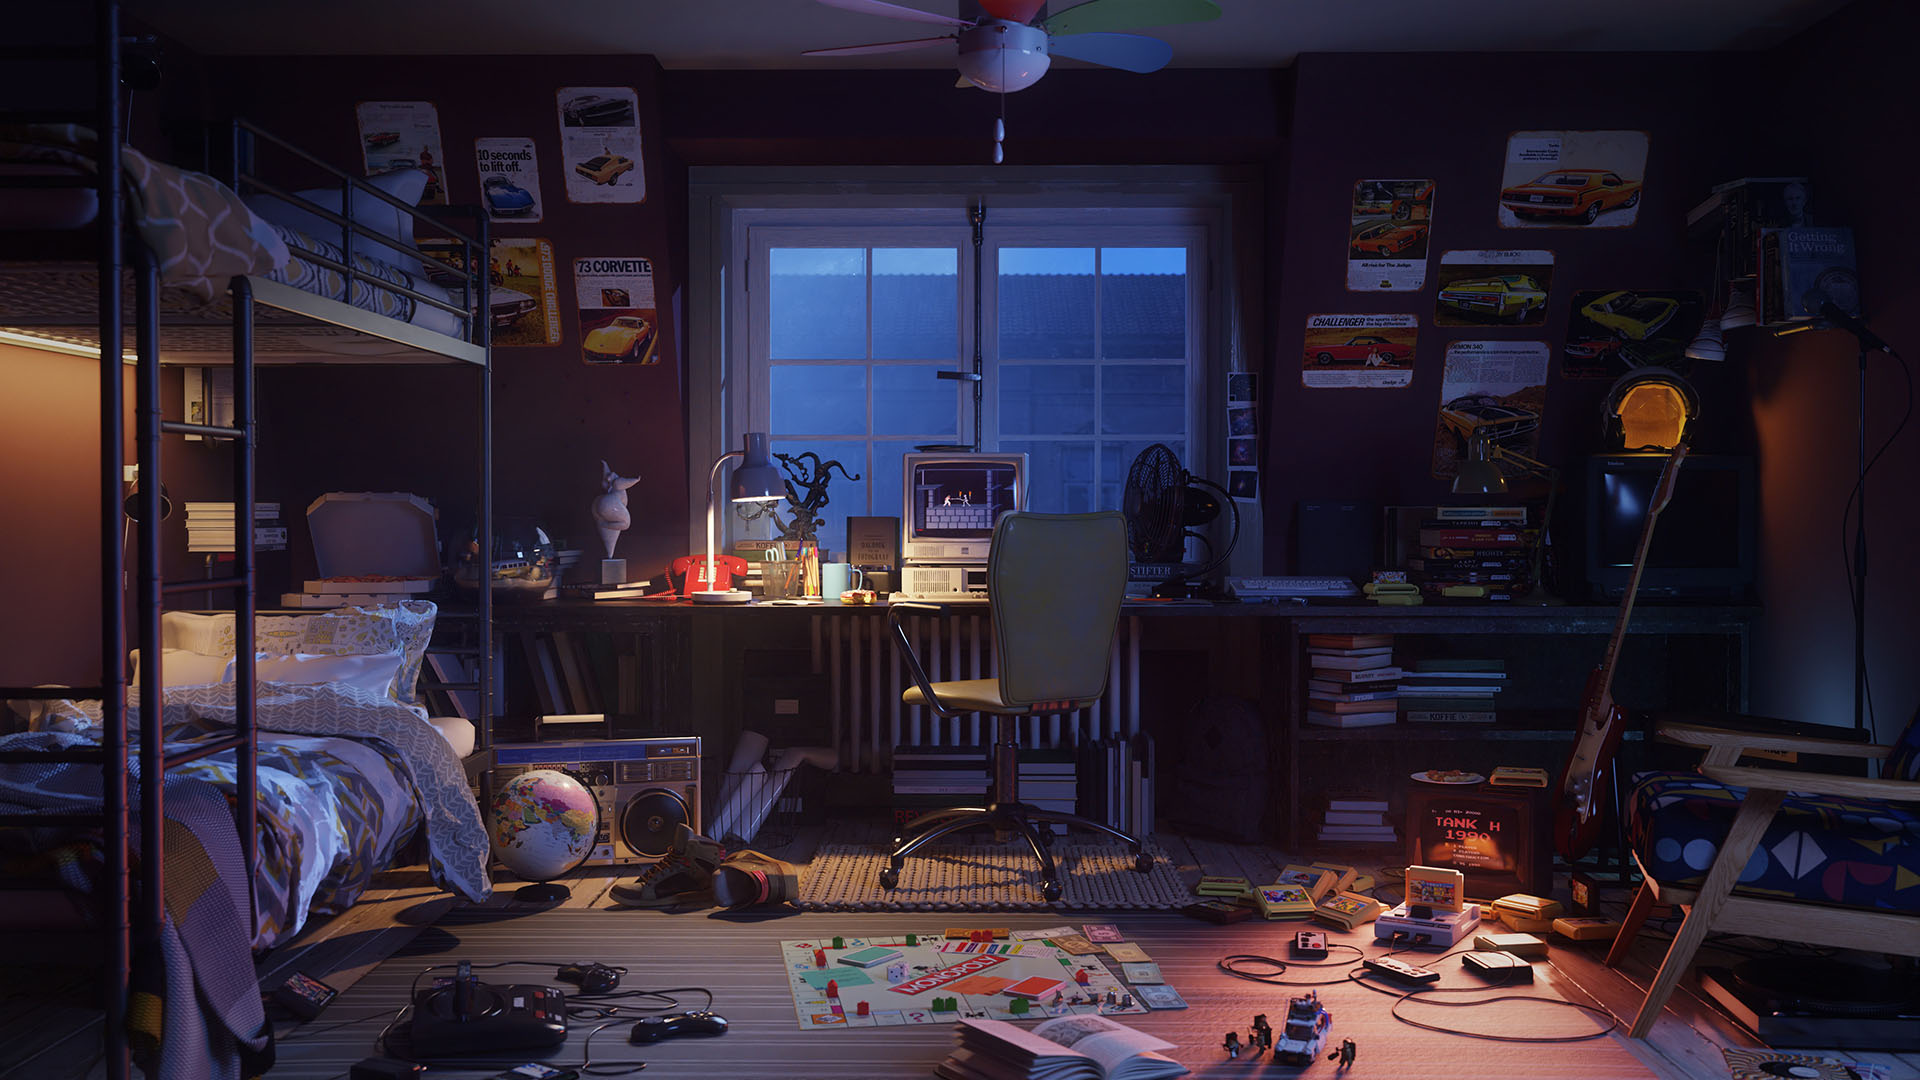
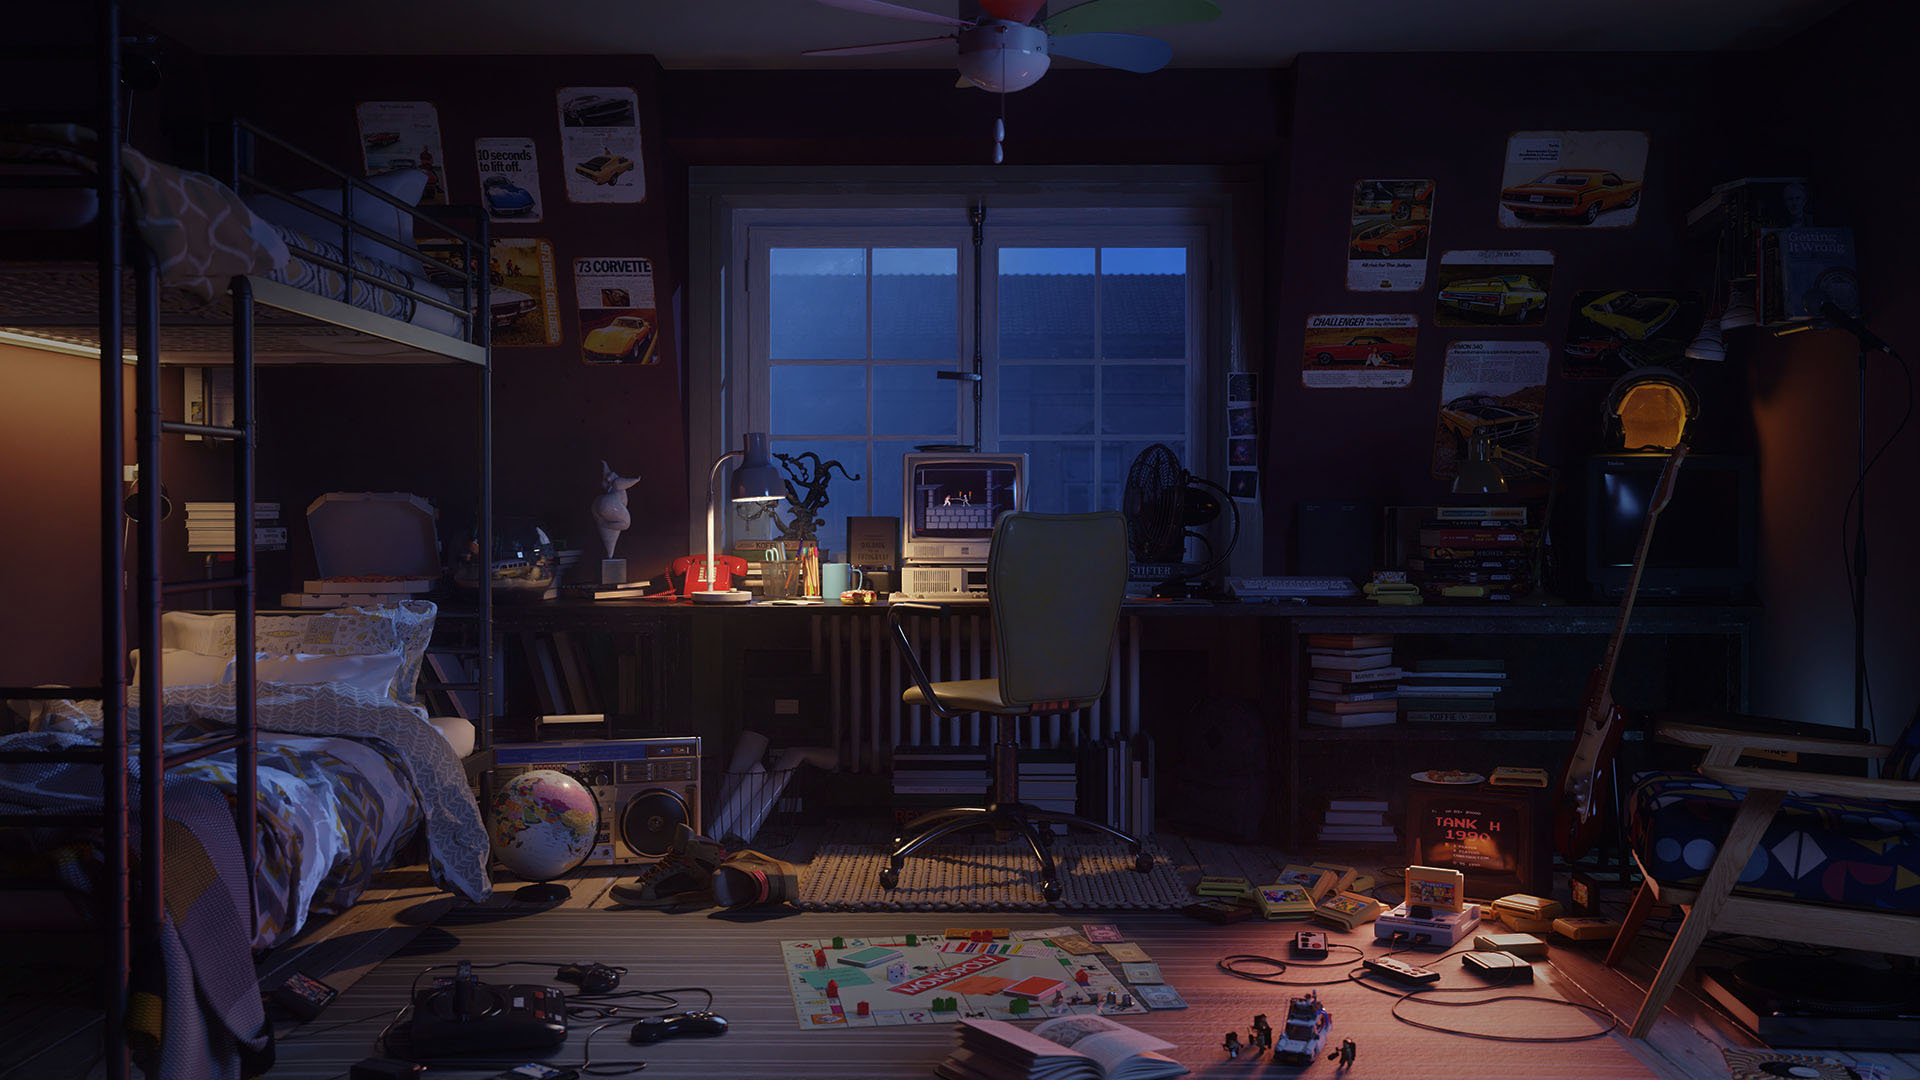
Update Background

diff --git a/src/App.vue b/src/App.vue
@@ -111,7 +111,7 @@ span {
   font-family: "Noto Sans SC";
 }
 body {
-  background: linear-gradient(rgba(0,0,0,0.4),rgba(0,0,0,0.6)), url("./assets/background.jpg") no-repeat center fixed;
+  background: url("./assets/background.jpg") no-repeat center fixed;
   background-size: cover;
 }
 
